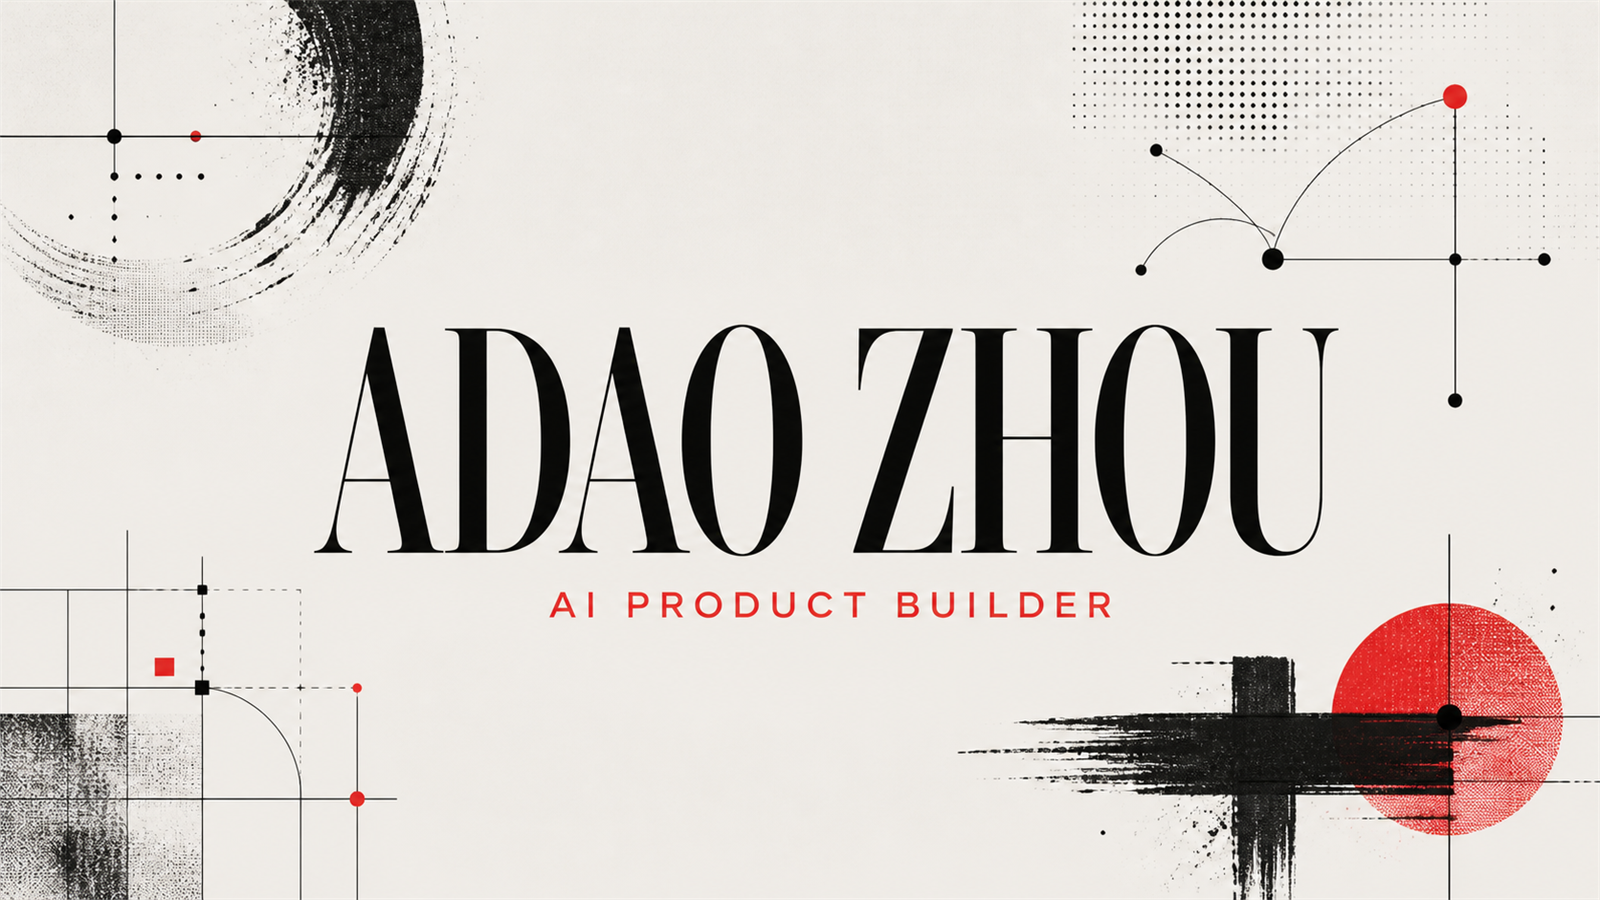
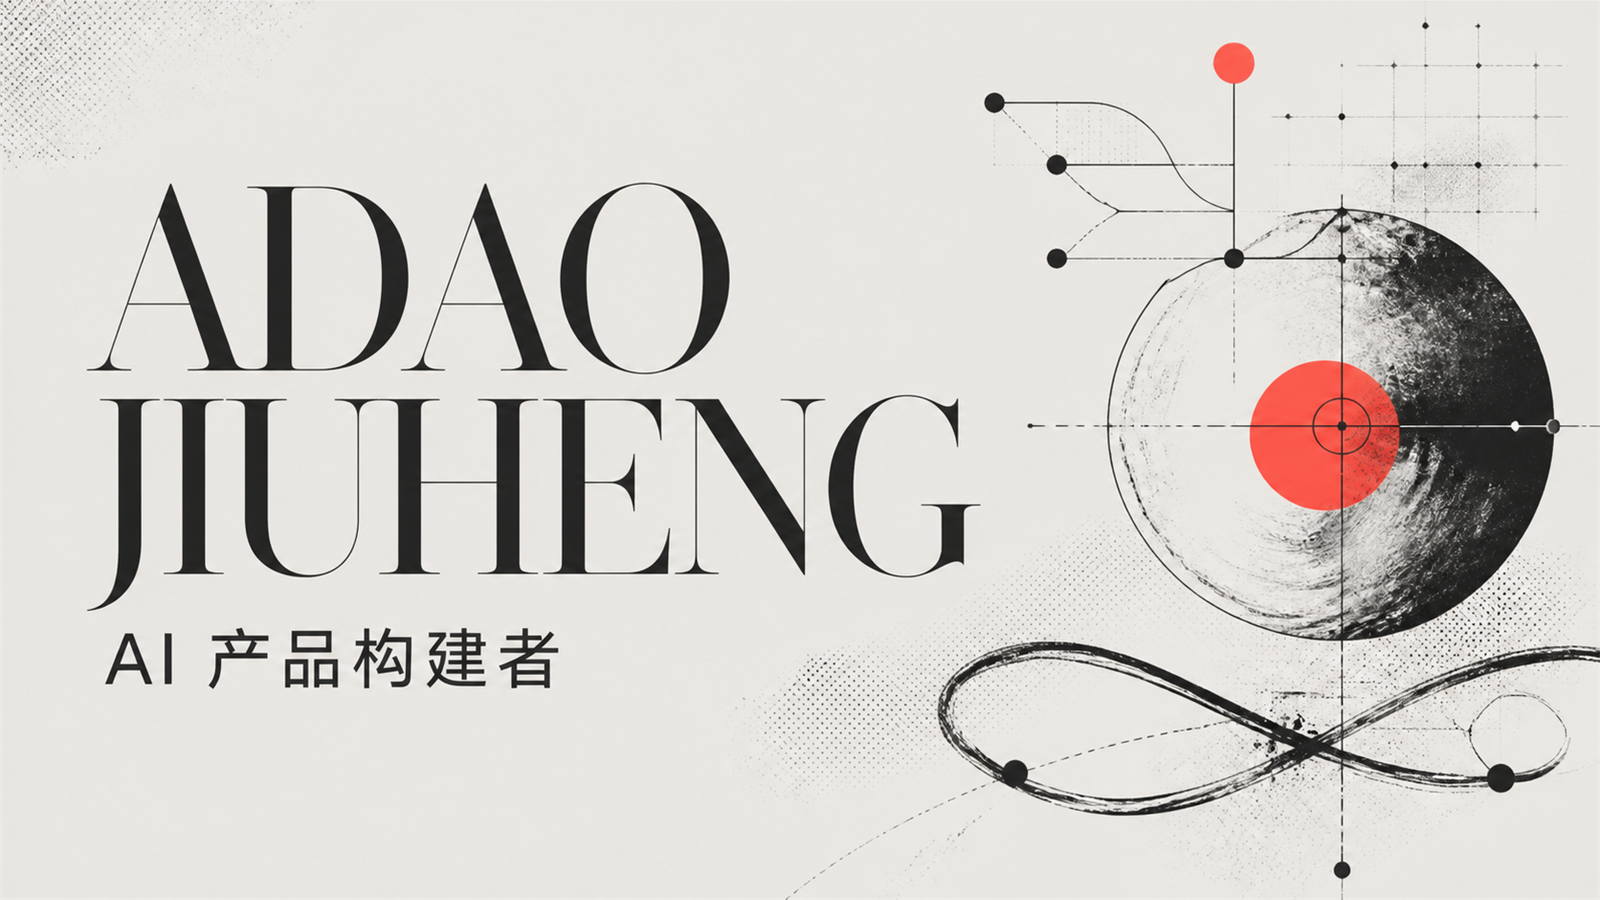
Localize portfolio and rename brand

Changed region(s): [[0.0, 0.0, 1.0, 1.0], [0.1875, 0.8711, 0.25, 0.9022], [0.375, 0.1867, 0.4062, 0.2178]]

diff --git a/app/page.tsx b/app/page.tsx
@@ -15,43 +15,50 @@ import {
 const projects = [
   {
     id: '01',
-    type: 'Desktop · AI learning',
-    title: 'Simple Physics',
-    description: 'A mechanics learning workspace that checks formulas, units and reasoning — not just final answers.',
+    type: '桌面端 · AI 学习产品',
+    title: '简单物理',
+    description: '面向力学学习的专业工作台，同时检查公式、单位与推理过程，而不只给出最终答案。',
     accent: 'coral',
     mark: 'F=ma',
     image: '/og.png',
   },
   {
     id: '02',
-    type: 'Desktop · Agent platform',
-    title: 'DeepDesk',
-    description: 'A local-first agent desktop where tools, model runs and human decisions stay in one visible flow.',
+    type: '桌面端 · 智能体平台',
+    title: '深度桌面',
+    description: '本地优先的智能体桌面，让工具调用、模型执行与人工决策始终处于可见、可控的工作流中。',
     accent: 'acid',
     mark: '↳AI',
     image: null,
   },
   {
     id: '03',
-    type: 'Research · Product strategy',
-    title: 'Agent Evaluation',
-    description: 'A practical framework linking benchmark results to business completion, compliance, latency and cost.',
+    type: '研究 · 产品战略',
+    title: '智能体评测体系',
+    description: '把基准测试与真实业务完成率、合规性、延迟和成本连接起来的实用评测框架。',
     accent: 'ink',
     mark: '94%',
     image: null,
   },
   {
     id: '04',
-    type: 'Data · Executive dashboard',
-    title: 'WorkBuddy Signals',
-    description: 'An evidence-backed dashboard turning product adoption, market signals and company filings into decisions.',
+    type: '数据 · 管理决策看板',
+    title: '企业智能体信号台',
+    description: '将产品采用率、市场信号和公司披露转化为可追溯决策依据的管理看板。',
     accent: 'blue',
     mark: '16.3',
     image: null,
   },
 ];
 
-const playground = ['Product teardown', 'Interface systems', 'Agent memory', 'Market maps'];
+const playground = ['产品逆向拆解', '界面系统设计', '智能体记忆机制', '市场竞争地图'];
+
+const navItems = [
+  { href: 'work', label: '作品' },
+  { href: 'about', label: '关于' },
+  { href: 'playground', label: '实验场' },
+  { href: 'contact', label: '联系' },
+];
 
 export default function Home() {
   const [motion, setMotion] = useState(true);
@@ -59,58 +66,58 @@ export default function Home() {
   return (
     <main className="portfolio-shell" data-motion={motion ? 'on' : 'off'}>
       <header className="site-header">
-        <a className="wordmark" href="#top" aria-label="Adao Zhou, home">
-          A/Z<sup>®</sup>
+        <a className="wordmark" href="#top" aria-label="Adao Jiuheng，返回首页">
+          A/J<sup>®</sup>
         </a>
-        <div className="header-status" aria-label="Availability">
+        <div className="header-status" aria-label="当前状态">
           <span className="status-dot" />
-          Independent product builder
+          独立 AI 产品构建者
         </div>
         <Sheet>
           <SheetTrigger
             render={
-              <Button variant="ghost" className="menu-button" aria-label="Open menu" />
+              <Button variant="ghost" className="menu-button" aria-label="打开菜单" />
             }
           >
-            Menu <Plus aria-hidden="true" />
+            菜单 <Plus aria-hidden="true" />
           </SheetTrigger>
           <SheetContent side="top" showCloseButton={false} className="menu-sheet">
-            <SheetTitle className="sr-only">Navigation</SheetTitle>
+            <SheetTitle className="sr-only">网站导航</SheetTitle>
             <SheetDescription className="sr-only">
-              Navigate through the portfolio.
+              浏览作品、关于、实验场与联系信息。
             </SheetDescription>
             <div className="menu-topline">
-              <span>Adao Zhou</span>
+              <span>Adao Jiuheng</span>
               <SheetClose
                 render={
-                  <Button variant="ghost" className="menu-button menu-close" aria-label="Close menu" />
+                  <Button variant="ghost" className="menu-button menu-close" aria-label="关闭菜单" />
                 }
               >
-                Close <Minus aria-hidden="true" />
+                关闭 <Minus aria-hidden="true" />
               </SheetClose>
             </div>
-            <nav className="menu-nav" aria-label="Main navigation">
-              {['work', 'about', 'playground', 'contact'].map((item, index) => (
-                <SheetClose key={item} render={<a href={`#${item}`} className="menu-item" />}>
+            <nav className="menu-nav" aria-label="主导航">
+              {navItems.map((item, index) => (
+                <SheetClose key={item.href} render={<a href={`#${item.href}`} className="menu-item" />}>
                   <span>0{index + 1}</span>
-                  {item}
+                  {item.label}
                   <ArrowUpRight aria-hidden="true" />
                 </SheetClose>
               ))}
             </nav>
             <div className="menu-footer">
-              <span>Shanghai · Working globally</span>
-              <a href="mailto:hello@example.com">hello@example.com</a>
+              <span>上海 · 面向全球协作</span>
+              <a href="mailto:hello@example.com">发送邮件</a>
             </div>
           </SheetContent>
         </Sheet>
       </header>
 
       <section className="hero" id="top" aria-labelledby="hero-title">
-        <p className="hero-role hero-role-left">AI PRODUCT</p>
-        <h1 id="hero-title" className="hero-title" aria-label="Adao Zhou">
+        <p className="hero-role hero-role-left">AI 产品</p>
+        <h1 id="hero-title" className="hero-title" aria-label="Adao Jiuheng">
           <span>ADAO</span>
-          <span>ZHOU</span>
+          <span>JIUHENG</span>
         </h1>
 
         <div className="hero-emblem" aria-hidden="true">
@@ -123,32 +130,32 @@ export default function Home() {
           <span className="emblem-chip chip-three">↗</span>
         </div>
 
-        <p className="hero-role hero-role-right">TECH STRATEGY</p>
+        <p className="hero-role hero-role-right">技术战略</p>
 
         <div className="hero-meta">
           <div>
-            <span className="meta-label">Launch</span>
+            <span className="meta-label">上线时间</span>
             <strong>2026</strong>
           </div>
           <div>
-            <span className="meta-label">Focus</span>
-            <strong>Product · AI · Systems</strong>
+            <span className="meta-label">关注领域</span>
+            <strong>产品 · AI · 系统</strong>
           </div>
         </div>
 
         <a className="scroll-cue" href="#work">
-          <span>Scroll to explore</span>
+          <span>向下探索</span>
           <ArrowDown size={16} strokeWidth={1.5} />
         </a>
       </section>
 
       <section className="work-section" id="work" aria-labelledby="work-heading">
         <div className="section-heading">
-          <p className="eyebrow">Selected work · 2024—26</p>
-          <h2 id="work-heading">Useful systems,<br />made memorable.</h2>
-          <p className="section-note">Drag or scroll the track</p>
+          <p className="eyebrow">代表作品 · 2024—26</p>
+          <h2 id="work-heading">让有用的系统，<br />也令人难忘。</h2>
+          <p className="section-note">拖动或滚动浏览</p>
         </div>
-        <div className="project-track" aria-label="Selected projects">
+        <div className="project-track" aria-label="代表项目">
           {projects.map((project) => (
             <article className="project-card" key={project.id}>
               <div className={`project-visual visual-${project.accent}`}>
@@ -156,7 +163,7 @@ export default function Home() {
                   <img
                     className="project-image"
                     src={project.image}
-                    alt="Adao Zhou AI Product Builder editorial identity"
+                    alt="Adao Jiuheng AI 产品构建者视觉形象"
                   />
                 ) : (
                   <>
@@ -177,20 +184,20 @@ export default function Home() {
       </section>
 
       <section className="about-section" id="about" aria-labelledby="about-heading">
-        <p className="eyebrow">About · Product × Technology</p>
+        <p className="eyebrow">关于我 · 产品 × 技术</p>
         <div className="about-grid">
           <h2 id="about-heading">
-            I turn ambiguous AI ideas into products that people can understand, trust and use.
+            我把模糊的 AI 想法，变成用户能理解、信任并真正使用的产品。
           </h2>
           <div className="about-copy">
             <p>
-              My work sits between product strategy, interaction design and engineering. I care about the whole path: the business question, the system boundary, the interface and the evidence that it works.
+              我的工作横跨产品战略、交互设计与工程实现。我关注完整链路：商业问题是否成立、系统边界是否清晰、界面是否好用，以及结果是否有证据支撑。
             </p>
             <dl>
-              <div><dt>01</dt><dd>Product direction</dd></div>
-              <div><dt>02</dt><dd>Agent architecture</dd></div>
-              <div><dt>03</dt><dd>Prototyping & delivery</dd></div>
-              <div><dt>04</dt><dd>Evaluation systems</dd></div>
+              <div><dt>01</dt><dd>产品方向与战略</dd></div>
+              <div><dt>02</dt><dd>智能体架构设计</dd></div>
+              <div><dt>03</dt><dd>原型开发与交付</dd></div>
+              <div><dt>04</dt><dd>评测与验证体系</dd></div>
             </dl>
           </div>
         </div>
@@ -198,8 +205,8 @@ export default function Home() {
 
       <section className="playground-section" id="playground" aria-labelledby="playground-heading">
         <div className="section-heading compact-heading">
-          <p className="eyebrow">Playground · Ongoing</p>
-          <h2 id="playground-heading">Things I keep pulling apart.</h2>
+          <p className="eyebrow">实验场 · 持续更新</p>
+          <h2 id="playground-heading">那些我反复拆解的问题。</h2>
         </div>
         <div className="play-list">
           {playground.map((item, index) => (
@@ -214,14 +221,14 @@ export default function Home() {
 
       <footer className="contact-section" id="contact">
         <div className="contact-kicker">
-          <span className="status-dot" /> Available for thoughtful work
+          <span className="status-dot" /> 接受有价值的合作
         </div>
-        <p>Have a hard product problem?</p>
+        <p>有一个难解的产品问题？</p>
         <a className="contact-link" href="mailto:hello@example.com">
-          LET’S TALK<span>↗</span>
+          来聊聊<span>↗</span>
         </a>
         <div className="contact-meta">
-          <span>© 2026 Adao Zhou</span>
+          <span>© 2026 Adao Jiuheng</span>
           <Button
             type="button"
             variant="ghost"
@@ -229,9 +236,9 @@ export default function Home() {
             onClick={() => setMotion((value) => !value)}
             aria-pressed={!motion}
           >
-            Motion {motion ? 'on' : 'off'}
+            动效{motion ? '开启' : '关闭'}
           </Button>
-          <a href="#top">Back to top ↑</a>
+          <a href="#top">返回顶部 ↑</a>
         </div>
       </footer>
     </main>

diff --git a/app/layout.tsx b/app/layout.tsx
@@ -5,21 +5,21 @@ export const metadata: Metadata = {
   metadataBase: new URL(
     'https://adao-zhou-product-portfolio.wangguangyi1007.chatgpt.site',
   ),
-  title: 'Adao Zhou — AI Product Builder',
+  title: 'Adao Jiuheng — AI 产品构建者',
   description:
-    'Independent AI product builder shaping useful products, systems and digital experiences.',
+    '独立 AI 产品构建者，专注于产品战略、智能体系统与可落地的数字体验。',
   openGraph: {
     type: 'website',
-    title: 'Adao Zhou — AI Product Builder',
+    title: 'Adao Jiuheng — AI 产品构建者',
     description:
-      'Independent AI product builder shaping useful products, systems and digital experiences.',
-    images: [{ url: '/og.png', width: 1600, height: 900, alt: 'Adao Zhou — AI Product Builder' }],
+      '独立 AI 产品构建者，专注于产品战略、智能体系统与可落地的数字体验。',
+    images: [{ url: '/og.png', width: 1600, height: 900, alt: 'Adao Jiuheng — AI 产品构建者' }],
   },
   twitter: {
     card: 'summary_large_image',
-    title: 'Adao Zhou — AI Product Builder',
+    title: 'Adao Jiuheng — AI 产品构建者',
     description:
-      'Independent AI product builder shaping useful products, systems and digital experiences.',
+      '独立 AI 产品构建者，专注于产品战略、智能体系统与可落地的数字体验。',
     images: ['/og.png'],
   },
 };
@@ -30,7 +30,7 @@ export default function RootLayout({
   children: React.ReactNode;
 }>) {
   return (
-    <html lang="en">
+    <html lang="zh-CN">
       <body>{children}</body>
     </html>
   );

diff --git a/app/globals.css b/app/globals.css
@@ -123,6 +123,12 @@ button, a { -webkit-tap-highlight-color: transparent; }
 
 .hero-title span { display: block; }
 
+.hero-title span:last-child {
+  font-size: 0.68em;
+  line-height: 0.9;
+  letter-spacing: -0.065em;
+}
+
 .hero-role {
   position: absolute;
   top: 49%;
